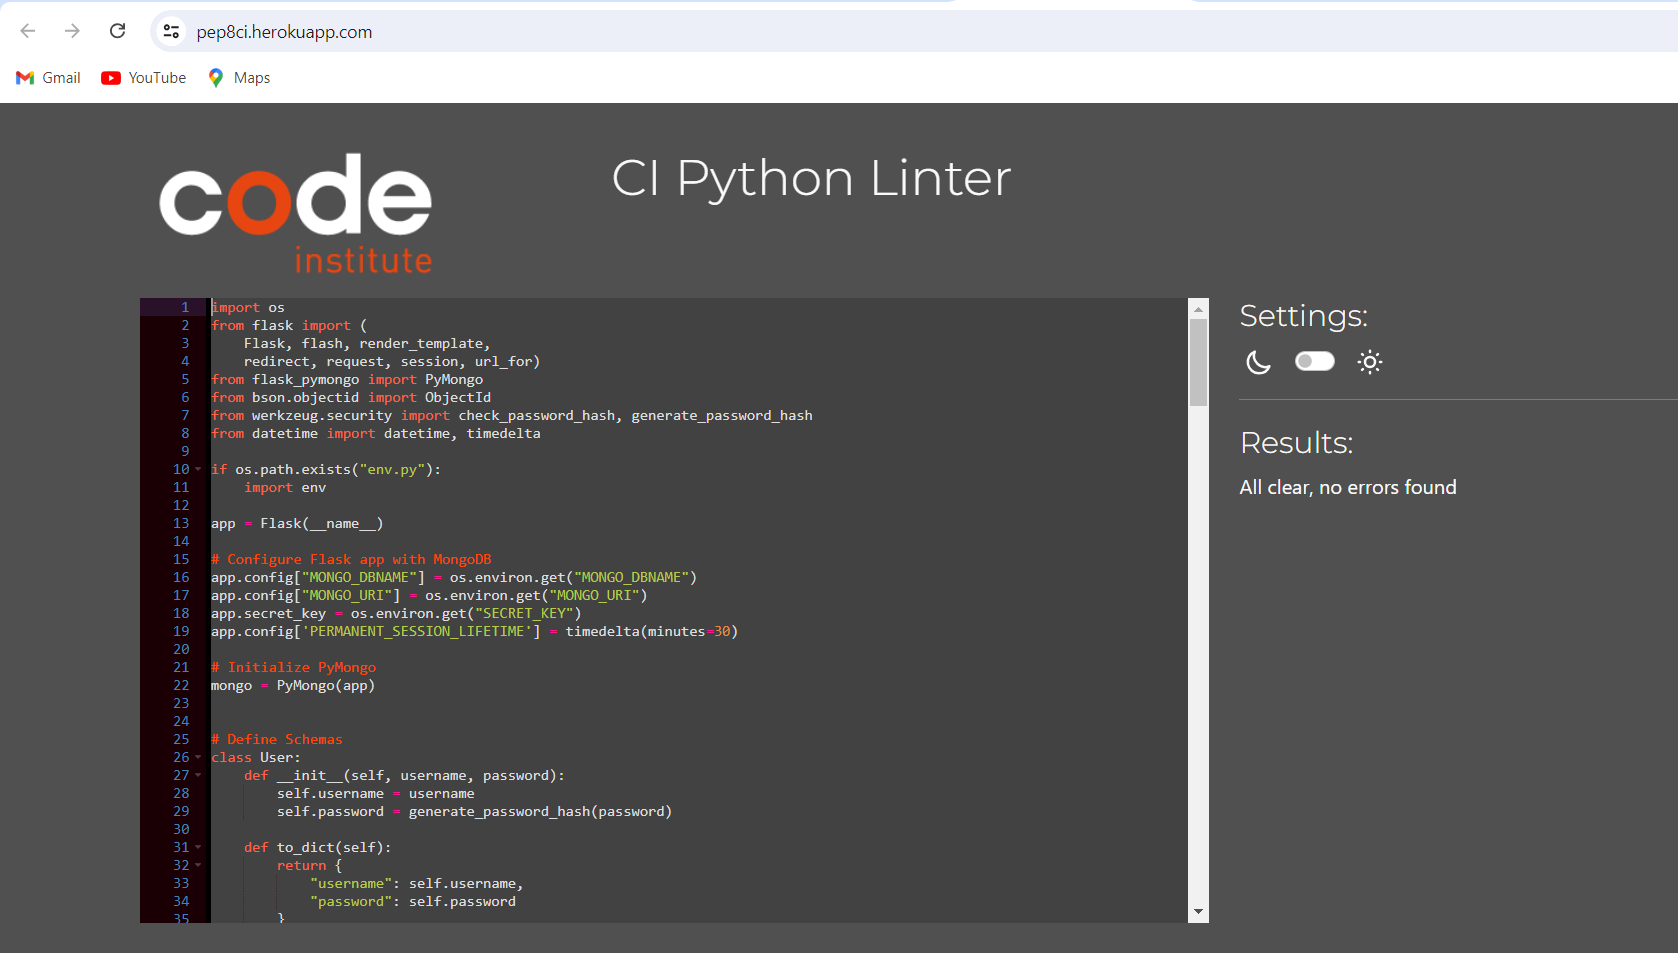
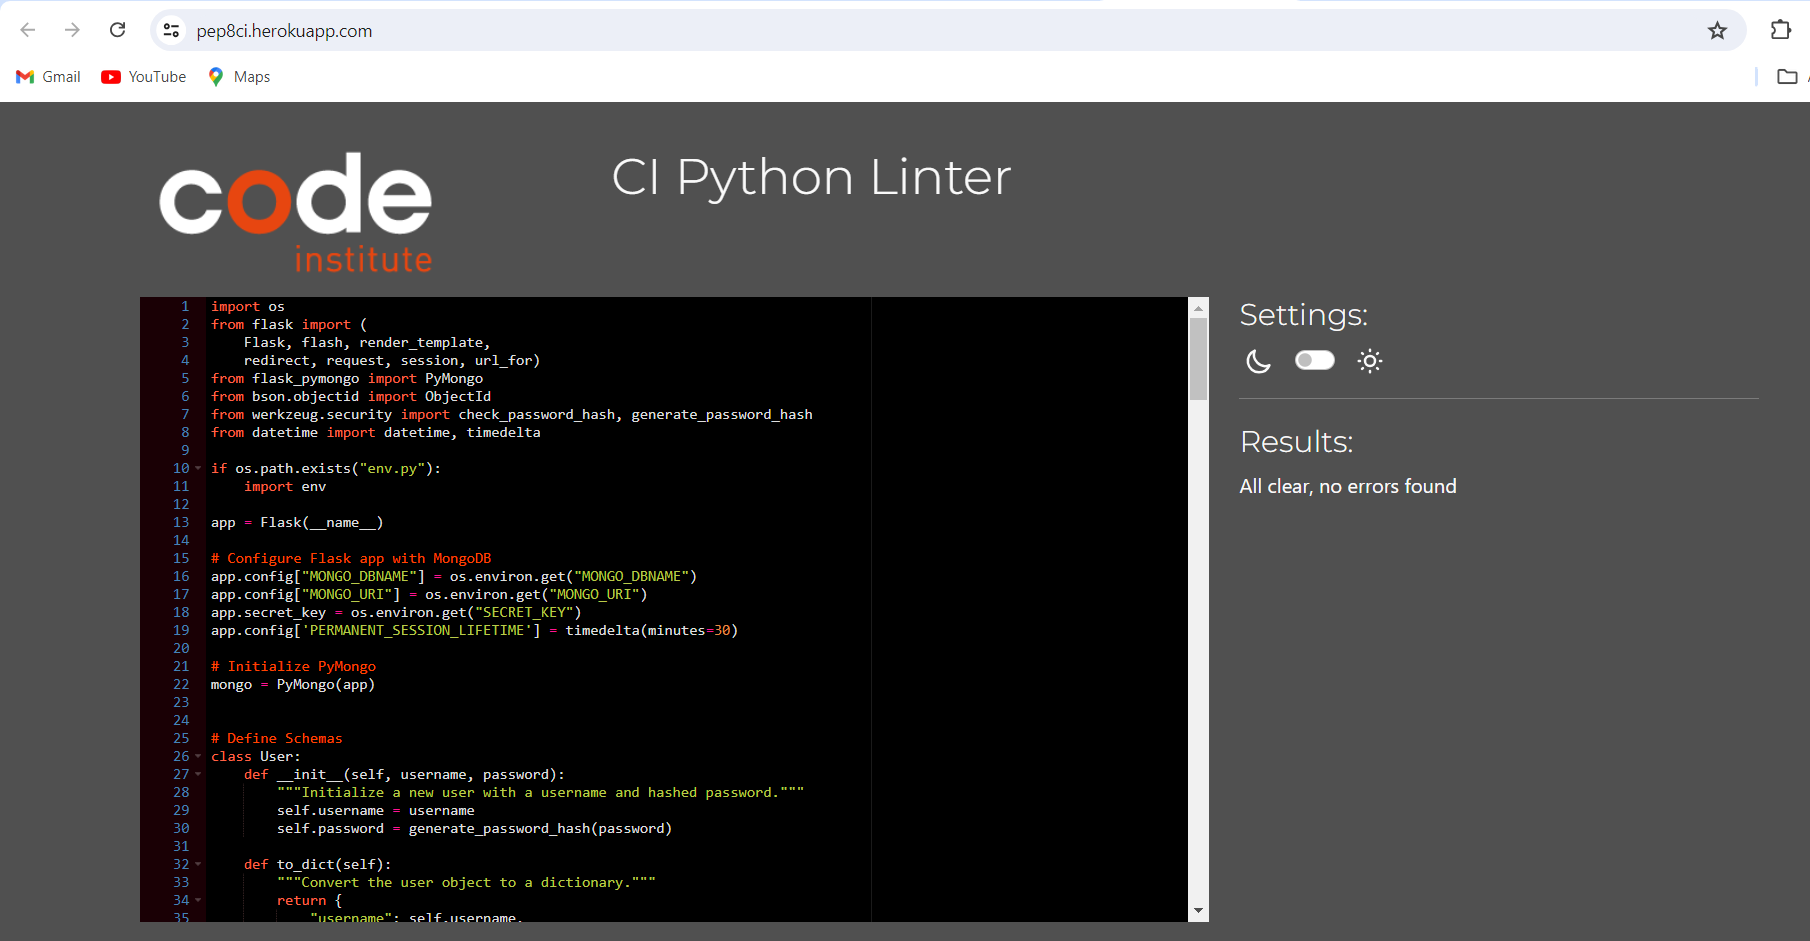
docs: update python validation

diff --git a/app.py b/app.py
@@ -25,10 +25,12 @@ mongo = PyMongo(app)
 # Define Schemas
 class User:
     def __init__(self, username, password):
+        """Initialize a new user with a username and hashed password."""
         self.username = username
         self.password = generate_password_hash(password)
 
     def to_dict(self):
+        """Convert the user object to a dictionary."""
         return {
             "username": self.username,
             "password": self.password
@@ -37,11 +39,13 @@ class User:
 
 class Definition:
     def __init__(self, term, definition, created_by=None):
+        """Initialize a new definition with a term, definition, and optional creator."""
         self.term = term
         self.definition = definition
         self.created_by = created_by
 
     def to_dict(self):
+        """Convert the definition object to a dictionary."""
         return {
             "term": self.term,
             "definition": self.definition,
@@ -68,7 +72,7 @@ def check_session():
 # Routes
 @app.route('/')
 def index():
-    # Fetch all definitions sorted by term alphabetically
+    """Fetch all definitions sorted by term alphabetically."""
     all_definitions = list(mongo.db.definitions.find().sort('term', 1))
     return render_template('index.html', definitions=all_definitions)
 
@@ -94,6 +98,7 @@ def browse(letter):
 
 @app.route('/login', methods=['GET', 'POST'])
 def login():
+    """Handle user login."""
     if request.method == 'POST':
         username = request.form['username']
         password = request.form['password']
@@ -113,6 +118,7 @@ def login():
 
 @app.route('/logout')
 def logout():
+    """Log out the current user."""
     session.pop('user', None)
     session.pop('last_active', None)
     return redirect(url_for('index'))
@@ -120,6 +126,7 @@ def logout():
 
 @app.route('/add_term', methods=['GET', 'POST'])
 def add_term():
+    """Add a new term to the dictionary."""
     if 'user' not in session:
         return redirect(url_for('login'))
 
@@ -141,6 +148,7 @@ def add_term():
 
 @app.route('/search', methods=['GET'])
 def search():
+    """Search for terms in the dictionary."""
     query = request.args.get('query')
     if query:
         matching_definitions = list(
@@ -164,6 +172,7 @@ def search():
 
 @app.route('/register', methods=['GET', 'POST'])
 def register():
+    """Handle user registration."""
     if request.method == 'POST':
         username = request.form['username']
         password = request.form['password']
@@ -193,6 +202,7 @@ def register():
 
 @app.route('/edit_term/<term_id>', methods=['GET', 'POST'])
 def edit_term(term_id):
+    """Edit an existing term in the dictionary."""
     if 'user' not in session:
         return redirect(url_for('login'))
 
@@ -217,6 +227,7 @@ def edit_term(term_id):
 
 @app.route('/delete_term/<term_id>', methods=['POST'])
 def delete_term(term_id):
+    """Delete a term from the dictionary."""
     if 'user' not in session:
         return redirect(url_for('login'))
 
